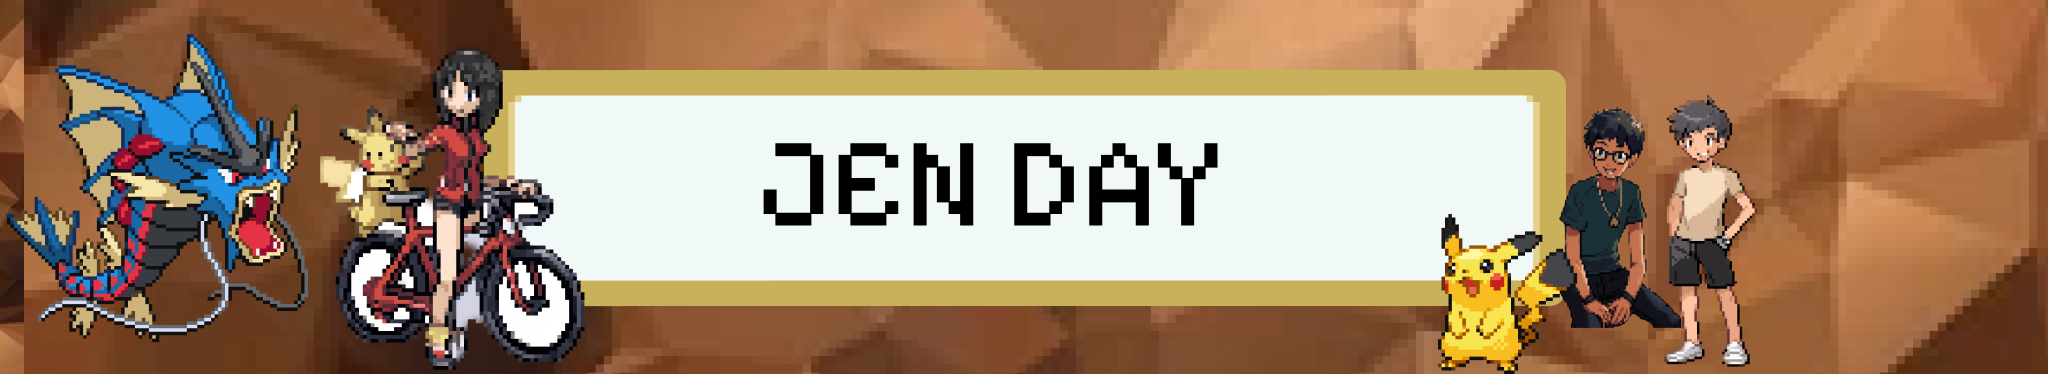
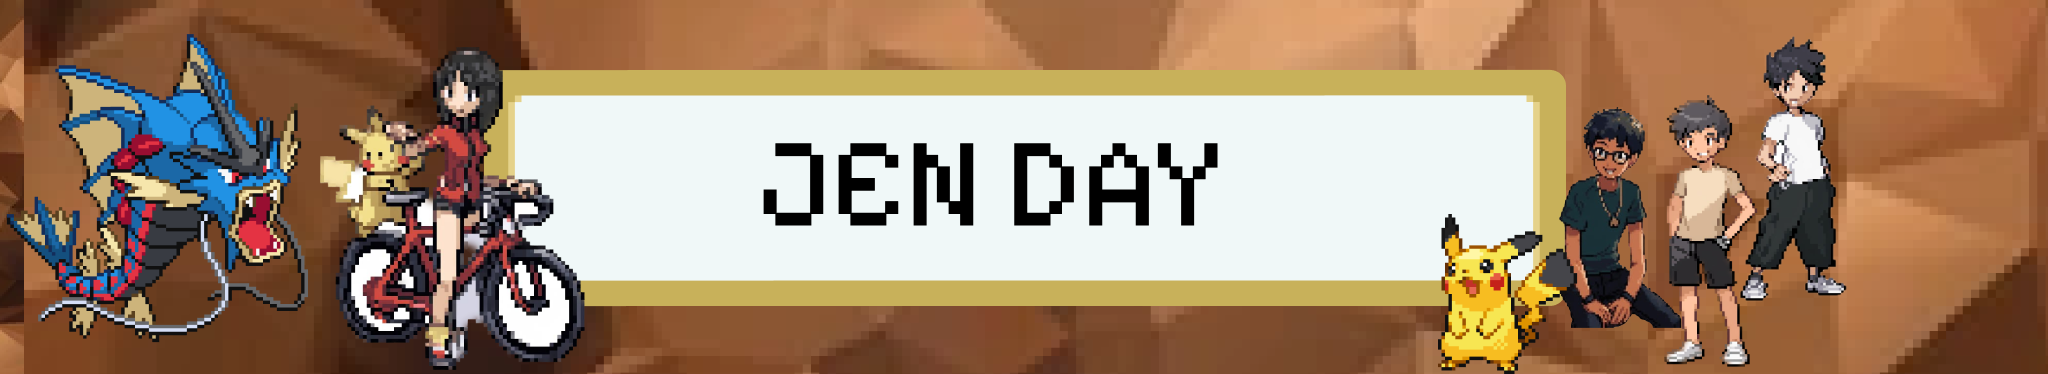
Adding lucas trainer

Changed region(s): [[0.8438, 0.1176, 0.9062, 0.8235]]

diff --git a/src/battle.ts b/src/battle.ts
@@ -696,6 +696,23 @@ export const classicFixedBattles: FixedBattleConfigs = {
       ],
       allowLuckUpgrades: false,
     }),
+
+  [ClassicFixedBossWaves.LUIS_2]: new FixedBattleConfig()
+    .setBattleType(BattleType.TRAINER)
+    .setGetTrainerFunc(
+      () => {
+        const trainer = new Trainer(TrainerType.LUIS_2, TrainerVariant.DEFAULT, undefined, undefined, undefined, trainerConfigs[TrainerType.LUIS_2]);
+        return trainer;
+      }
+    ).setCustomModifierRewards({
+      guaranteedModifierTiers: [
+        ModifierTier.ULTRA,
+        ModifierTier.ULTRA,
+        ModifierTier.ULTRA,
+        ModifierTier.LUXURY,
+      ],
+      allowLuckUpgrades: false,
+    }),
   [ClassicFixedBossWaves.ELIOT]: new FixedBattleConfig()
     .setBattleType(BattleType.TRAINER)
     .setGetTrainerFunc(
@@ -709,13 +726,23 @@ export const classicFixedBattles: FixedBattleConfigs = {
       ],
       allowLuckUpgrades: false,
     }),
-  [ClassicFixedBossWaves.LUIS_2]: new FixedBattleConfig()
+  [ClassicFixedBossWaves.ELIOT_2]: new FixedBattleConfig()
     .setBattleType(BattleType.TRAINER)
     .setGetTrainerFunc(
-      () => {
-        const trainer = new Trainer(TrainerType.LUIS_2, TrainerVariant.DEFAULT, undefined, undefined, undefined, trainerConfigs[TrainerType.LUIS_2]);
-        return trainer;
-      }
+      () => new Trainer(TrainerType.ELIOT_2, TrainerVariant.DEFAULT, undefined, undefined, undefined, trainerConfigs[TrainerType.ELIOT_2])
+    ).setCustomModifierRewards({
+      guaranteedModifierTiers: [
+        ModifierTier.ULTRA,
+        ModifierTier.ULTRA,
+        ModifierTier.ULTRA,
+        ModifierTier.LUXURY,
+      ],
+      allowLuckUpgrades: false,
+    }),
+  [ClassicFixedBossWaves.LUCAS]: new FixedBattleConfig()
+    .setBattleType(BattleType.TRAINER)
+    .setGetTrainerFunc(
+      () => new Trainer(TrainerType.LUCAS, TrainerVariant.DEFAULT, undefined, undefined, undefined, trainerConfigs[TrainerType.LUCAS])
     ).setCustomModifierRewards({
       guaranteedModifierTiers: [
         ModifierTier.ULTRA,

diff --git a/src/data/trainer-config.ts b/src/data/trainer-config.ts
@@ -185,6 +185,11 @@ export const trainerPartyTemplates = {
     new TrainerPartyTemplate(1, PartyMemberStrength.AVERAGE),
     new TrainerPartyTemplate(1, PartyMemberStrength.WEAK, false, true),
     new TrainerPartyTemplate(1, PartyMemberStrength.AVERAGE, false, true)),
+  LUCAS: new TrainerPartyCompoundTemplate(
+    new TrainerPartyTemplate(1, PartyMemberStrength.STRONG),
+    new TrainerPartyTemplate(1, PartyMemberStrength.WEAK, false, true),
+    new TrainerPartyTemplate(1, PartyMemberStrength.AVERAGE),
+    new TrainerPartyTemplate(1, PartyMemberStrength.AVERAGE, false, true)),
 };
 
 type PartyTemplateFunc = () => TrainerPartyTemplate;
@@ -299,7 +304,7 @@ export class TrainerConfig {
   }
 
   getSpriteKey(female?: boolean, isDouble: boolean = false): string {
-    const customTrainers = [ TrainerType.LUIS, TrainerType.ELIOT ];
+    const customTrainers = [ TrainerType.LUIS, TrainerType.ELIOT, TrainerType.LUCAS ];
     if (customTrainers.includes(this.trainerType)) {
       return this.getKey();
     }
@@ -1529,6 +1534,14 @@ const customTrainerConfigs = {
     .setPartyTemplates(trainerPartyTemplates.ELIOT)
     .setInstantTera(3), // Tera Ghost Lucario / Tera Dark Mewtwo / Tera Steel Tyrantitar
 
+  [TrainerType.LUCAS]: new TrainerConfig(TrainerType.LUCAS)
+    .initForFriend(true)
+    .setPartyMemberFunc(0, getRandomPartyMemberFunc([ Species.CHARIZARD ]))
+    .setPartyMemberFunc(1, getRandomPartyMemberFunc([ Species.HORSEA ]))
+    .setPartyMemberFunc(2, getRandomPartyMemberFunc([ Species.LUGIA ]))
+    .setPartyMemberFunc(3, getRandomPartyMemberFunc([ Species.DIALGA ]))
+    .setPartyTemplates(trainerPartyTemplates.LUCAS)
+    .setInstantTera(3), // Tera Ghost Lucario / Tera Dark Mewtwo / Tera Steel Tyrantitar
 
 };
 

diff --git a/src/field/trainer.ts b/src/field/trainer.ts
@@ -85,12 +85,12 @@ export default class Trainer extends Phaser.GameObjects.Container {
 
     const getSprite = (hasShadow?: boolean, forceFemale?: boolean) => {
       const ret = globalScene.addFieldSprite(0, 0, this.config.getSpriteKey(variant === TrainerVariant.FEMALE || forceFemale, this.isDouble()));
-      if (this.config.getKey() === "luis") {
+      if (this.config.getKey() === "luis" || this.config.getKey() === "lucas") {
         ret.setScale(0.7);
       }
       ret.setOrigin(0.5, 1);
       const shadowOffset = 0;
-      const friends = [ "luis", "eliot" ];
+      const friends = [ "luis", "eliot", "lucas" ];
       if (friends.includes(this.config.getKey())) {
         hasShadow = false;
       }

diff --git a/src/overrides.ts b/src/overrides.ts
@@ -61,7 +61,7 @@ class DefaultOverrides {
    * If `"odd-doubles"`, follow the `"double"` rule on odd wave numbers, and follow the `"single"` rule on even wave numbers.
    */
   readonly BATTLE_TYPE_OVERRIDE: BattleStyle | null = null;
-  readonly STARTING_WAVE_OVERRIDE: number = 8;
+  readonly STARTING_WAVE_OVERRIDE: number = 25;
   readonly STARTING_BIOME_OVERRIDE: Biome = Biome.TOWN;
   readonly ARENA_TINT_OVERRIDE: TimeOfDay | null = null;
   /** Multiplies XP gained by this value including 0. Set to null to ignore the override. */

diff --git a/src/game-mode.ts b/src/game-mode.ts
@@ -175,6 +175,9 @@ export class GameMode implements GameModeConfig {
     if (waveIndex === ClassicFixedBossWaves.ELIOT) {
       return true;
     }
+    if (waveIndex === ClassicFixedBossWaves.LUCAS) {
+      return true;
+    }
 
     /**
      * Daily spawns trainers on floors 5, 15, 20, 25, 30, 35, 40, and 45

diff --git a/src/data/dialogue.ts b/src/data/dialogue.ts
@@ -3167,6 +3167,14 @@ export const trainerTypeDialogue: TrainerTypeDialogue = {
       "dialogue:eliot.victory.1",
     ],
   },
+  [TrainerType.LUCAS]: {
+    encounter: [
+      "dialogue:lucas.encounter.1",
+    ],
+    victory: [
+      "dialogue:lucas.victory.1",
+    ],
+  },
 };
 
 
